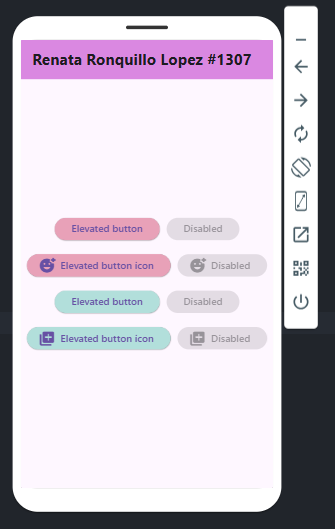
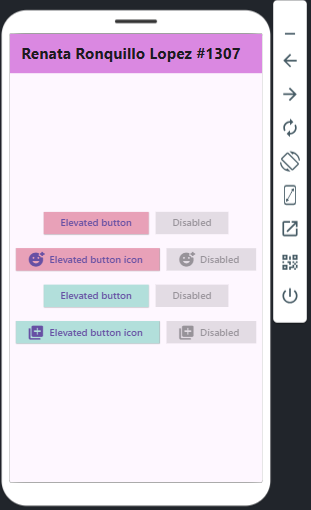
subirrrr

Changed region(s): [[0.0, 0.0, 1.0, 1.0]]

diff --git a/lib/main.dart b/lib/main.dart
@@ -33,12 +33,20 @@ class MyApp extends StatelessWidget {
                     },
                     style: ElevatedButton.styleFrom(
                       backgroundColor: Color(0xffe8a1b8), // Color rosa
+                      shape: RoundedRectangleBorder(
+                        borderRadius: BorderRadius.zero, // Bordes rectangulares
+                      ),
                     ),
                     child: Text('Elevated button'),
                   ),
                   SizedBox(width: 10), // Espacio entre botones
                   ElevatedButton(
                     onPressed: null, // Botón deshabilitado
+                    style: ElevatedButton.styleFrom(
+                      shape: RoundedRectangleBorder(
+                        borderRadius: BorderRadius.zero, // Bordes rectangulares
+                      ),
+                    ),
                     child: Text('Disabled'),
                   ),
                 ],
@@ -55,6 +63,9 @@ class MyApp extends StatelessWidget {
                     },
                     style: ElevatedButton.styleFrom(
                       backgroundColor: Color(0xffe8a1b8), // Color rosa
+                      shape: RoundedRectangleBorder(
+                        borderRadius: BorderRadius.zero, // Bordes rectangulares
+                      ),
                     ),
                     icon: Icon(Icons.add_reaction), // Icono
                     label: Text('Elevated button icon'),
@@ -62,6 +73,11 @@ class MyApp extends StatelessWidget {
                   SizedBox(width: 10), // Espacio entre botones
                   ElevatedButton.icon(
                     onPressed: null, // Botón deshabilitado
+                    style: ElevatedButton.styleFrom(
+                      shape: RoundedRectangleBorder(
+                        borderRadius: BorderRadius.zero, // Bordes rectangulares
+                      ),
+                    ),
                     icon: Icon(Icons.add_reaction), // Icono
                     label: Text('Disabled'),
                   ),
@@ -79,12 +95,20 @@ class MyApp extends StatelessWidget {
                     },
                     style: ElevatedButton.styleFrom(
                       backgroundColor: Color(0xFFB2DFDB), // Verde pastel
+                      shape: RoundedRectangleBorder(
+                        borderRadius: BorderRadius.zero, // Bordes rectangulares
+                      ),
                     ),
                     child: Text('Elevated button'),
                   ),
                   SizedBox(width: 10), // Espacio entre botones
                   ElevatedButton(
                     onPressed: null, // Botón deshabilitado
+                    style: ElevatedButton.styleFrom(
+                      shape: RoundedRectangleBorder(
+                        borderRadius: BorderRadius.zero, // Bordes rectangulares
+                      ),
+                    ),
                     child: Text('Disabled'),
                   ),
                 ],
@@ -101,6 +125,9 @@ class MyApp extends StatelessWidget {
                     },
                     style: ElevatedButton.styleFrom(
                       backgroundColor: Color(0xFFB2DFDB), // Verde pastel
+                      shape: RoundedRectangleBorder(
+                        borderRadius: BorderRadius.zero, // Bordes rectangulares
+                      ),
                     ),
                     icon: Icon(Icons.library_add), // Icono
                     label: Text('Elevated button icon'),
@@ -108,6 +135,11 @@ class MyApp extends StatelessWidget {
                   SizedBox(width: 10), // Espacio entre botones
                   ElevatedButton.icon(
                     onPressed: null, // Botón deshabilitado
+                    style: ElevatedButton.styleFrom(
+                      shape: RoundedRectangleBorder(
+                        borderRadius: BorderRadius.zero, // Bordes rectangulares
+                      ),
+                    ),
                     icon: Icon(Icons.library_add), // Icono
                     label: Text('Disabled'),
                   ),
